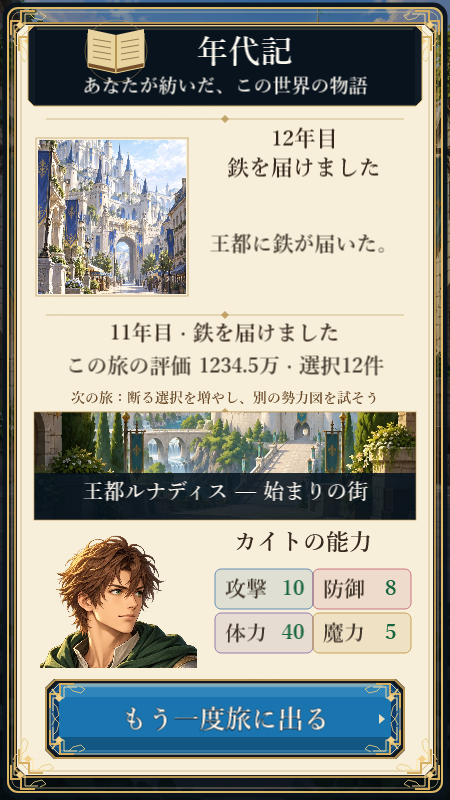
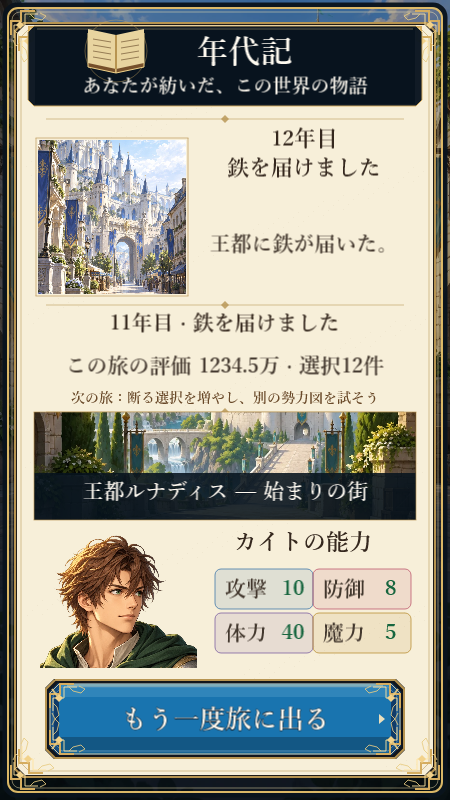
fix(karma): keep portrait evaluation rows separated

Changed region(s): [[0.0933, 0.375, 0.9022, 0.4375]]

diff --git a/games/karma-quest/src/conceptArt.ts b/games/karma-quest/src/conceptArt.ts
@@ -1087,7 +1087,7 @@ function buildFinal(scene: Runtime): Phaser.GameObjects.Container {
   const pageRules = scene.add.graphics();
   pageRules.lineStyle(1, 0xb79451, 0.65).strokeRect(36, 138, 152, 158);
   // One continuous journal page: rules separate entries without nesting cards.
-  for (const y of [119, 315, 412]) {
+  for (const y of [119, 305, 412]) {
     pageRules.lineStyle(1, 0xb79451, 0.55).lineBetween(46, y, 404, y);
     pageRules.fillStyle(0xb79451, 0.8).fillPoints([
       new Phaser.Math.Vector2(225, y - 4), new Phaser.Math.Vector2(229, y),
@@ -1097,7 +1097,7 @@ function buildFinal(scene: Runtime): Phaser.GameObjects.Container {
   root.add(pageRules);
   const eventTitle = text(scene, root, 304, 154, "", 22, "#35281e", "900", 204).setName("chronicleTitle");
   const eventBody = text(scene, root, 304, 244, "", 21, "#43382e", "700", 200).setAlign("left").setName("chronicleBody");
-  const previousTitle = text(scene, root, 225, 333, "", 21, "#35281e", "900", 350)
+  const previousTitle = text(scene, root, 225, 323, "", 21, "#35281e", "900", 350)
     .setName("chroniclePreviousTitle");
   const recordCount = text(scene, root, 225, 366, "", 21, "#43382e", "700", 350)
     .setName("chronicleRecordCount");
